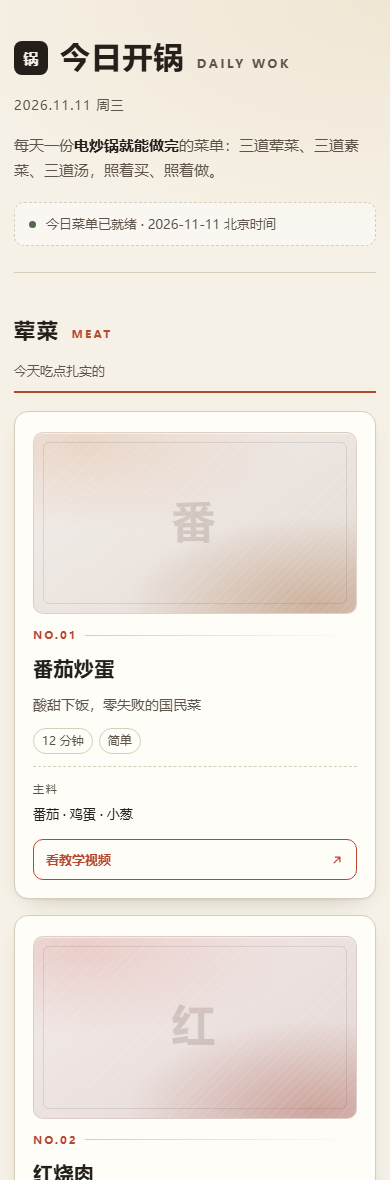
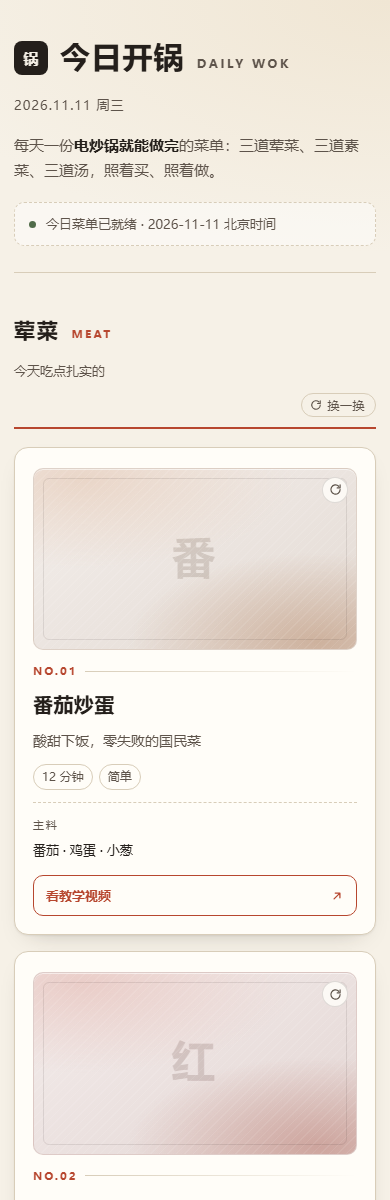
feat: 分类与单卡「换一换」，浏览器本地替换且避开最近 7 天

diff --git a/public/index.html b/public/index.html
@@ -167,6 +167,47 @@
     color: var(--ink-soft);
   }
 
+  .reroll {
+    display: inline-flex;
+    align-items: center;
+    gap: 6px;
+    padding: 3px 10px 3px 8px;
+    border: 1px solid var(--line);
+    border-radius: 999px;
+    background: transparent;
+    color: var(--ink-soft);
+    font-family: inherit;
+    font-size: 12px;
+    letter-spacing: .04em;
+    cursor: pointer;
+    transition: color .16s ease, border-color .16s ease, background .16s ease;
+  }
+
+  .reroll svg { transition: transform .35s ease; }
+
+  .reroll:hover,
+  .reroll:focus-visible {
+    color: var(--accent);
+    border-color: var(--accent);
+    background: #fffdf8;
+  }
+
+  .reroll:hover svg { transform: rotate(180deg); }
+
+  html.no-pool .reroll,
+  html.no-pool .card-media .swap { display: none; }
+
+  .swap-hint {
+    display: none;
+    margin-top: 12px;
+    font-size: 12.5px;
+    color: var(--ink-soft);
+  }
+
+  .swap-hint.show { display: block; }
+
+  .swap-hint b { color: var(--ink); font-weight: 700; }
+
   .cards {
     display: grid;
     grid-template-columns: repeat(3, minmax(0, 1fr));
@@ -228,6 +269,48 @@
     border-radius: 6px;
     pointer-events: none;
   }
+
+  .card-media .swap {
+    position: absolute;
+    top: 8px;
+    right: 8px;
+    z-index: 2;
+    width: 26px;
+    height: 26px;
+    display: grid;
+    place-items: center;
+    padding: 0;
+    border: 1px solid rgba(36, 31, 27, .14);
+    border-radius: 50%;
+    background: rgba(255, 253, 248, .86);
+    color: var(--ink-soft);
+    cursor: pointer;
+    backdrop-filter: blur(2px);
+    opacity: 0;
+    transform: translateY(-2px);
+    transition: opacity .18s ease, transform .18s ease, color .18s ease, border-color .18s ease;
+  }
+
+  article.card:hover .card-media .swap,
+  .card-media .swap:focus-visible {
+    opacity: 1;
+    transform: none;
+  }
+
+  .card-media .swap:hover {
+    color: var(--accent);
+    border-color: var(--accent);
+  }
+
+  .card-media .swap svg { transition: transform .4s ease; }
+  .card-media .swap:hover svg { transform: rotate(150deg); }
+
+  @keyframes cardIn {
+    from { opacity: 0; transform: translateY(8px); }
+    to   { opacity: 1; transform: none; }
+  }
+
+  .card--enter { animation: cardIn .3s ease both; }
 
   article.card:hover .card-media::before { transform: translateY(-3px) scale(1.04); }
 
@@ -434,6 +517,7 @@
   /* ---------- 响应式 ---------- */
   @media (max-width: 900px) {
     .cards, .skeleton { grid-template-columns: repeat(2, minmax(0, 1fr)); }
+    .card-media .swap { opacity: 1; transform: none; }
   }
 
   @media (max-width: 620px) {
@@ -442,6 +526,7 @@
     .cards, .skeleton { grid-template-columns: 1fr; }
     .cat-head { flex-wrap: wrap; }
     .cat-head .note { margin-left: 0; width: 100%; }
+    .cat-head .reroll { margin-left: auto; }
     .card h3 { font-size: 20px; }
     .history-list li { grid-template-columns: 1fr; gap: 4px; }
     .h-date { display: flex; align-items: baseline; gap: 8px; }
@@ -472,6 +557,7 @@
       <span class="dot"></span>
       <span id="status-text">正在读取今天的菜单…</span>
     </div>
+    <div class="swap-hint" id="swap-hint"></div>
   </header>
 
   <main class="board" id="board" aria-live="polite">
@@ -512,6 +598,17 @@
 
   let lastGeneratedAt = null;
   let retryTimer = null;
+
+  const POOL_URL = './data/dishes.json';
+  const swapHint = document.getElementById('swap-hint');
+
+  let pool = null;            // { meat: [dish], veg: [...], soup: [...] }
+  let poolPromise = null;
+  let cats = {};              // 分类元信息
+  let shown = {};             // 当前显示的三道菜
+  let recentIds = {};         // 最近 7 天用过的 id，换菜时避开
+  let swapCount = 0;
+  let currentDate = null;
 
   const beijingToday = () => new Intl.DateTimeFormat('en-CA', {
     timeZone: 'Asia/Shanghai', year: 'numeric', month: '2-digit', day: '2-digit',
@@ -556,9 +653,13 @@
       dish.imageUrl
         ? `<img src="${escapeHtml(dish.imageUrl)}" alt="${escapeHtml(dish.name)}" loading="lazy" decoding="async" onerror="this.remove()" />`
         : ''
-    }</div>`;
+    }<button class="swap" type="button" data-action="swap" data-cat="${cat.key}" data-idx="${index}" title="换一道${escapeHtml(cat.label)}" aria-label="换一道${escapeHtml(cat.label)}">
+        <svg width="13" height="13" viewBox="0 0 24 24" fill="none" stroke="currentColor" stroke-width="2.2" stroke-linecap="round" stroke-linejoin="round" aria-hidden="true">
+          <path d="M20.5 12a8.5 8.5 0 1 1-2.5-6"/><path d="M20.5 3.5V9h-5.4"/>
+        </svg>
+      </button></div>`;
     return `
-      <article class="card">
+      <article class="card" data-cat="${cat.key}" data-idx="${index}">
         ${media}
         <div class="card-index">NO.0${index + 1}</div>
         <h3>${escapeHtml(dish.name)}</h3>
@@ -608,13 +709,123 @@
     section.hidden = false;
   }
 
+  async function loadPool() {
+    if (pool) return pool;
+    if (!poolPromise) {
+      poolPromise = fetch(`${POOL_URL}?v=${Date.now()}`, { cache: 'no-store' })
+        .then((res) => {
+          if (!res.ok) throw new Error(`HTTP ${res.status}`);
+          return res.json();
+        })
+        .then((list) => {
+          const grouped = {};
+          list.forEach((dish) => {
+            if (!grouped[dish.category]) grouped[dish.category] = [];
+            grouped[dish.category].push(dish);
+          });
+          pool = grouped;
+          return pool;
+        })
+        .catch((err) => {
+          console.warn('[daily-wok] 候选菜库加载失败：', err);
+          document.documentElement.classList.add('no-pool');
+          return null;
+        });
+    }
+    return poolPromise;
+  }
+
+  function pickReplacement(catKey) {
+    const list = (pool && pool[catKey]) || [];
+    const used = new Set((shown[catKey] || []).map((d) => d.id));
+    const recent = recentIds[catKey] || new Set();
+    let candidates = list.filter((d) => !used.has(d.id) && !recent.has(d.id));
+    if (!candidates.length) candidates = list.filter((d) => !used.has(d.id));
+    if (!candidates.length) return null;
+    return candidates[Math.floor(Math.random() * candidates.length)];
+  }
+
+  function replaceCardAt(catKey, index, dish) {
+    const old = board.querySelector(`.card[data-cat="${catKey}"][data-idx="${index}"]`);
+    if (!old) return;
+    const holder = document.createElement('div');
+    holder.innerHTML = cardHtml(dish, index, cats[catKey]).trim();
+    const fresh = holder.firstElementChild;
+    fresh.classList.add('card--enter');
+    fresh.addEventListener('animationend', () => fresh.classList.remove('card--enter'), { once: true });
+    old.replaceWith(fresh);
+  }
+
+  function updateHint(message) {
+    if (!swapHint) return;
+    if (message) {
+      swapHint.innerHTML = escapeHtml(message);
+      swapHint.classList.add('show');
+      return;
+    }
+    if (swapCount > 0) {
+      swapHint.innerHTML = `已临时替换 <b>${swapCount}</b> 道菜 · 只影响你这台设备，刷新页面恢复今日菜单`;
+      swapHint.classList.add('show');
+    } else {
+      swapHint.innerHTML = '';
+      swapHint.classList.remove('show');
+    }
+  }
+
+  async function onSwap(catKey, index) {
+    const ready = await loadPool();
+    if (!ready) { updateHint('候选菜库没有加载成功，稍后再试'); return; }
+    const dish = pickReplacement(catKey);
+    if (!dish) { updateHint('这一类里暂时没有别的菜可以换了'); return; }
+    shown[catKey][index] = dish;
+    replaceCardAt(catKey, index, dish);
+    swapCount += 1;
+    updateHint();
+  }
+
+  async function onReroll(catKey) {
+    const ready = await loadPool();
+    if (!ready) { updateHint('候选菜库没有加载成功，稍后再试'); return; }
+    let changed = 0;
+    for (let i = 0; i < 3; i += 1) {
+      const dish = pickReplacement(catKey);
+      if (!dish) break;
+      shown[catKey][i] = dish;
+      replaceCardAt(catKey, i, dish);
+      changed += 1;
+    }
+    if (!changed) { updateHint('这一类里暂时没有别的菜可以换了'); return; }
+    swapCount += changed;
+    updateHint();
+  }
+
   function render(data) {
+    cats = {};
+    shown = {};
+    recentIds = {};
+    data.categories.forEach((cat) => {
+      cats[cat.key] = cat;
+      shown[cat.key] = cat.dishes.slice();
+      recentIds[cat.key] = new Set((data.recentIds && data.recentIds[cat.key]) || []);
+    });
+    if (data.date !== currentDate) {
+      currentDate = data.date;
+      swapCount = 0;
+      updateHint();
+    }
+
     board.innerHTML = data.categories.map((cat) => `
       <section class="cat" style="--accent:${cat.accent || ACCENT[cat.key] || 'var(--ink)'}">
         <div class="cat-head">
           <h2>${escapeHtml(cat.label)}</h2>
           <span class="en">${escapeHtml(cat.en)}</span>
           <span class="note">${escapeHtml(cat.note)}</span>
+          <button class="reroll" type="button" data-action="reroll" data-cat="${cat.key}">
+            <svg width="12" height="12" viewBox="0 0 24 24" fill="none" stroke="currentColor" stroke-width="2.2" stroke-linecap="round" stroke-linejoin="round" aria-hidden="true">
+              <path d="M20.5 12a8.5 8.5 0 1 1-2.5-6"/><path d="M20.5 3.5V9h-5.4"/>
+            </svg>
+            换一换
+          </button>
         </div>
         <div class="cards">${cat.dishes.map((dish, i) => cardHtml(dish, i, cat)).join('')}</div>
       </section>`).join('');
@@ -667,6 +878,15 @@
       scheduleRetry();
     }
   }
+
+  board.addEventListener('click', (event) => {
+    const btn = event.target.closest('[data-action]');
+    if (!btn) return;
+    event.preventDefault();
+    const catKey = btn.dataset.cat;
+    if (btn.dataset.action === 'swap') onSwap(catKey, Number(btn.dataset.idx));
+    else if (btn.dataset.action === 'reroll') onReroll(catKey);
+  });
 
   load();
   setInterval(() => load({ silent: true }), REFRESH_MS);

diff --git a/PROJECT_HANDOVER.md b/PROJECT_HANDOVER.md
@@ -159,6 +159,9 @@ daily-wok/
 | 卡片 16:9 图区 | 每张菜卡顶部新增 `aspect-ratio: 16/9` 图区，圆角 10px + 9px 细内框；默认用 CSS 渐变插画（分类基色 + 菜品 id 微调色相 + 菜名首字淡色大字 + 斜纹肌理） | 桌面/移动截图，比例与圆角正常、无破图 |
 | 真实照片替换 | 新增可选 `data/images.json`（`{ "菜品id": "图片URL" }`），生成器把它写进 `today.json` 的 `imageUrl`；页面有图则渲染 `<img object-fit:cover>`，加载失败自动回退渐变 | 用内联 SVG 实测：配图的菜变真图，其余保持插画 |
 | 图片来源取舍 | 不用 Unsplash 随机图：`source.unsplash.com` 已下线，`images.unsplash.com` 在国内网络不稳定，会拖慢首屏并出现破图 | — |
+| 换一换（换菜） | 生成器额外产出 `public/data/dishes.json`（90 道全量 + 解析好的视频/图片）作为候选池；`today.json` 加 `recentIds`（最近 7 天用过的 id）。分类标题右侧 **换一换** 换整块三道，卡片图区右上角 **↻** 换单道；浏览器本地替换、刷新即恢复 | 无头浏览器点击测试 9 项断言全部 PASS（见下） |
+
+换一换的自动化断言（`_swaptest.html`，跑完即删）：9 个单卡按钮存在；点单卡后该卡换新、同类不重复、其他两类不受影响；整块换一换后三道全部不同且无重复；出现“已临时替换 4 道菜”提示；替换后无横向溢出。
 
 ### 2026-11-09 增量优化（本轮）
 

diff --git a/README.md b/README.md
@@ -62,6 +62,19 @@ daily-wok/
 └─ package.json
 ```
 
+### 换一换（临时替换）
+
+页面支持在不改动“今日菜单”的前提下自己换菜：
+
+- 每个分类标题右侧有 **换一换**：一次替换该分类的三道菜；
+- 每张卡片图区右上角有 **↻** 小按钮（桌面端悬停显示，触屏常显）：只换这一道；
+- 候选来自生成时输出的 `public/data/dishes.json`（90 道全量，含已解析的视频/图片）；
+- 选菜会避开**当前这一类已显示的 3 道**和**最近 7 天吃过的菜**（`today.json` 的 `recentIds`）；
+- 替换只发生在浏览器里，**刷新页面即恢复**今日菜单；页面会显示“已临时替换 N 道菜”的提示；
+- 如果 `dishes.json` 没加载成功，按钮会自动隐藏（`html.no-pool`），不会出现点了没反应的情况。
+
+`public/data/dishes.json` 是生成产物（已加入 `.gitignore`），随 Pages 产物一起部署，不需要手工维护。
+
 ### 卡片图区
 
 每张菜卡顶部有一个 **16:9**、圆角、带细内框的图区：
